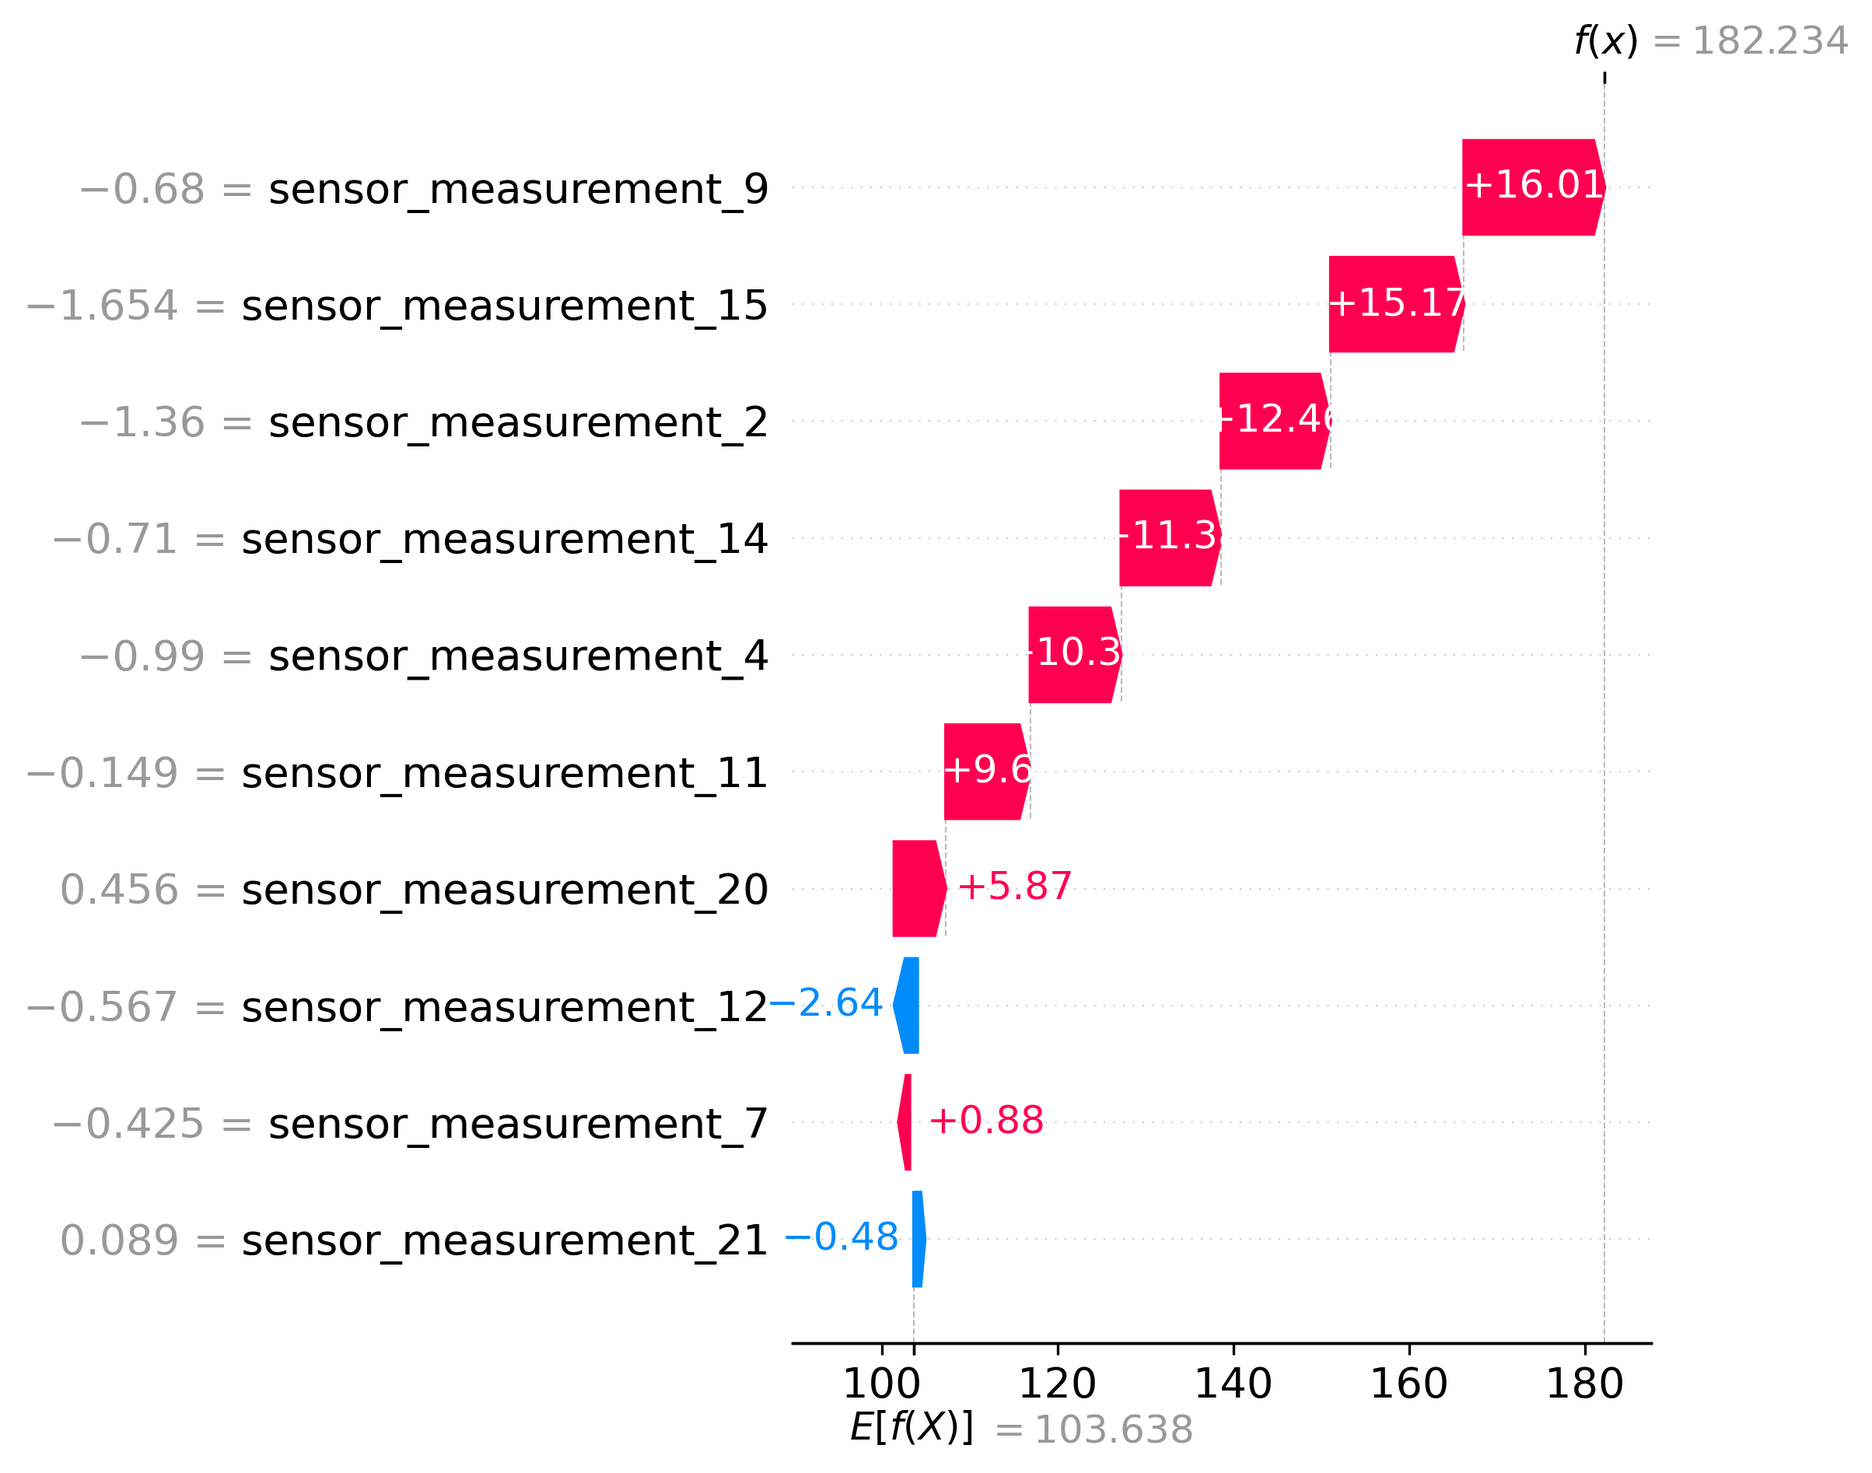
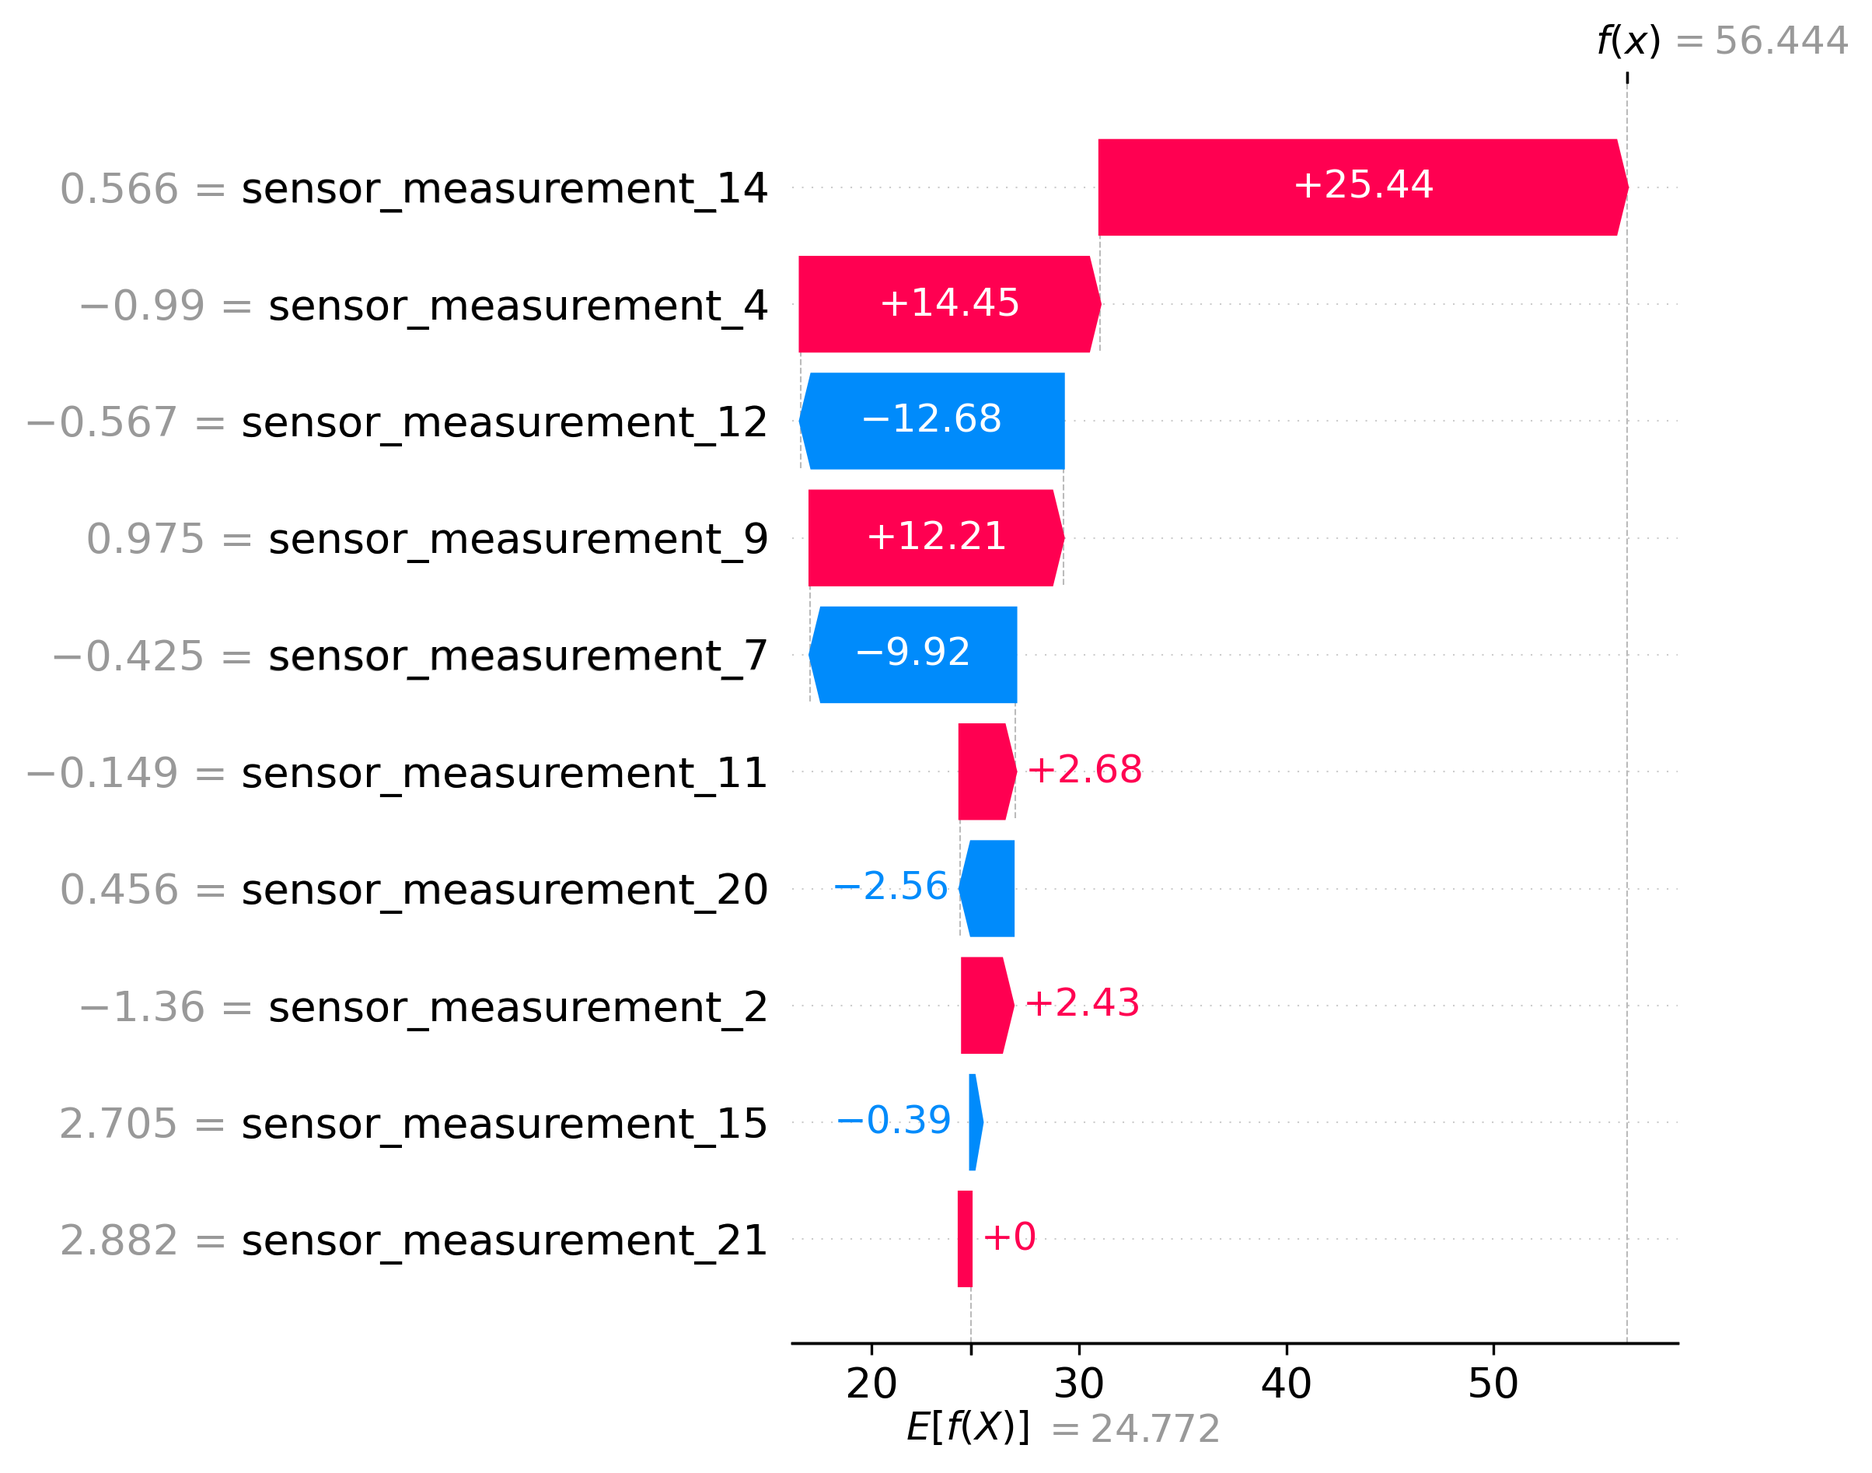
dene

diff --git a/reports/lime_explanation.html b/reports/lime_explanation.html
@@ -37179,25 +37179,25 @@
 /***/ })
 /******/ ]);
 //# sourceMappingURL=bundle.js.map </script></head><body>
-        <div class="lime top_div" id="top_divQ5JF7NCBO4XEWF1"></div>
+        <div class="lime top_div" id="top_divPHFOTSIHFSVS5LF"></div>
         
         <script>
-        var top_div = d3.select('#top_divQ5JF7NCBO4XEWF1').classed('lime top_div', true);
+        var top_div = d3.select('#top_divPHFOTSIHFSVS5LF').classed('lime top_div', true);
         
         
                     var pp_div = top_div.append('div')
                                         .classed('lime predicted_value', true);
                     var pp_svg = pp_div.append('svg').style('width', '100%');
-                    var pp = new lime.PredictedValue(pp_svg, 83.9693832397461, 27.097143173217773, 228.87863159179688);
+                    var pp = new lime.PredictedValue(pp_svg, 56.44389213143544, 23.315924613887702, 191.85516354106232);
                     
         var exp_div;
             var exp = new lime.Explanation(["negative", "positive"]);
         
             exp_div = top_div.append('div').classed('lime explanation', true);
-            exp.show([["sensor_measurement_11 > 0.60", -23.583279571980356], ["sensor_measurement_7 > 0.73", 14.753987134929249], ["sensor_measurement_4 <= -0.73", 11.747356971178373], ["sensor_measurement_12 <= -0.62", -10.002054619211357], ["sensor_measurement_2 <= -0.71", 9.718272243879412], ["sensor_measurement_15 > 0.63", -7.167314536285208], ["-0.54 < sensor_measurement_14 <= -0.17", 6.6808708354935815], ["sensor_measurement_20 <= -0.66", -5.619332346636126], ["sensor_measurement_21 <= -0.64", -3.345006769153097], ["-0.21 < sensor_measurement_9 <= 0.18", -2.979836992745462]], 1, exp_div);
+            exp.show([["sensor_measurement_9 > 0.18", -32.7535477518242], ["sensor_measurement_14 > 0.22", -28.2329653387959], ["sensor_measurement_4 <= -0.73", 11.972689976733157], ["sensor_measurement_21 > 0.71", 9.417008732714095], ["sensor_measurement_15 > 0.63", -9.224336097615991], ["-0.71 < sensor_measurement_11 <= -0.11", 7.339785786742209], ["sensor_measurement_2 <= -0.71", 6.5101496900753215], ["-0.64 < sensor_measurement_7 <= 0.08", -3.6222504596025065], ["-0.62 < sensor_measurement_12 <= 0.09", -0.9598153006127299], ["0.07 < sensor_measurement_20 <= 0.73", 0.8015468135282559]], 1, exp_div);
             
         var raw_div = top_div.append('div');
-            exp.show_raw_tabular([["sensor_measurement_11", "3.73", -23.583279571980356], ["sensor_measurement_7", "3.06", 14.753987134929249], ["sensor_measurement_4", "-2.78", 11.747356971178373], ["sensor_measurement_12", "-1.93", -10.002054619211357], ["sensor_measurement_2", "-7.78", 9.718272243879412], ["sensor_measurement_15", "0.95", -7.167314536285208], ["sensor_measurement_14", "-0.30", 6.6808708354935815], ["sensor_measurement_20", "-8.44", -5.619332346636126], ["sensor_measurement_21", "-3.73", -3.345006769153097], ["sensor_measurement_9", "-0.15", -2.979836992745462]], 1, raw_div);
+            exp.show_raw_tabular([["sensor_measurement_9", "0.98", -32.7535477518242], ["sensor_measurement_14", "0.57", -28.2329653387959], ["sensor_measurement_4", "-0.99", 11.972689976733157], ["sensor_measurement_21", "2.88", 9.417008732714095], ["sensor_measurement_15", "2.71", -9.224336097615991], ["sensor_measurement_11", "-0.15", 7.339785786742209], ["sensor_measurement_2", "-1.36", 6.5101496900753215], ["sensor_measurement_7", "-0.43", -3.6222504596025065], ["sensor_measurement_12", "-0.57", -0.9598153006127299], ["sensor_measurement_20", "0.46", 0.8015468135282559]], 1, raw_div);
         
         </script>
         </body></html>

diff --git a/app.py b/app.py
@@ -917,10 +917,136 @@ if sicaklik is not None and titresim is not None and tork is not None:
     st.markdown("---")
     st.subheader("🧩 Model Açıklamaları (Explainability)")
     
+    # Özel modeller için wrapper oluştur
+    class ModelWrapper:
+        """LIME/SHAP için özel modelleri sarmalayan wrapper"""
+        def __init__(self, model, model_type, scaler, features):
+            self.model = model
+            self.model_type = model_type
+            self.scaler = scaler
+            self.features = features
+            
+            # Stacking için taban modelleri önden yükle (performans optimizasyonu)
+            self.base_models = {}
+            if "Stacking" in self.model_type:
+                try:
+                    self.base_models['xgboost'] = joblib.load("xgboost_q50_model.pkl")
+                except:
+                    pass
+                try:
+                    self.base_models['lightgbm'] = joblib.load("lightgbm_q50_model.pkl")
+                except:
+                    pass
+                try:
+                    self.base_models['catboost'] = joblib.load("catboost_q50_model.pkl")
+                except:
+                    pass
+        
+        def __call__(self, X):
+            """SHAP için callable interface - predict'e yönlendir"""
+            return self.predict(X)
+        
+        def predict(self, X):
+            """Tüm model türleri için unified predict interface"""
+            # Input'u numpy array'e dönüştür
+            if isinstance(X, pd.DataFrame):
+                X_array = X.values
+            else:
+                X_array = np.asarray(X)
+            
+            # Tek boyutlu array'i 2D'ye dönüştür
+            if len(X_array.shape) == 1:
+                X_array = X_array.reshape(1, -1)
+            
+            # Float tipinde olduğundan emin ol
+            X_array = X_array.astype(np.float64)
+            
+            if "LSTM" in self.model_type:
+                # LSTM için sequence oluştur
+                sequence_length = 50
+                predictions = []
+                for i in range(X_array.shape[0]):
+                    X_seq = np.repeat(X_array[i:i+1], sequence_length, axis=0).reshape(1, sequence_length, len(self.features))
+                    pred = float(self.model.predict(X_seq, verbose=0)[0][0])
+                    predictions.append(pred)
+                return np.array(predictions, dtype=np.float64)
+                
+            elif "Stacking" in self.model_type:
+                # Stacking: taban modellerin tahminlerini al (önden yüklenmiş)
+                predictions = []
+                for i in range(X_array.shape[0]):
+                    base_preds = []
+                    
+                    if 'xgboost' in self.base_models:
+                        try:
+                            pred = self.base_models['xgboost'].predict(X_array[i:i+1])
+                            base_preds.append(float(pred[0]) if hasattr(pred, '__getitem__') else float(pred))
+                        except:
+                            pass
+                    if 'lightgbm' in self.base_models:
+                        try:
+                            pred = self.base_models['lightgbm'].predict(X_array[i:i+1])
+                            base_preds.append(float(pred[0]) if hasattr(pred, '__getitem__') else float(pred))
+                        except:
+                            pass
+                    if 'catboost' in self.base_models:
+                        try:
+                            pred = self.base_models['catboost'].predict(X_array[i:i+1])
+                            base_preds.append(float(pred[0]) if hasattr(pred, '__getitem__') else float(pred))
+                        except:
+                            pass
+                    
+                    if len(base_preds) >= 2:
+                        Z = np.array(base_preds, dtype="float32").reshape(1, -1)
+                        predictions.append(float(self.model.predict(Z)[0]))
+                    else:
+                        predictions.append(100.0)  # Fallback
+                return np.array(predictions, dtype=np.float64)
+                
+            elif "Survival" in self.model_type:
+                # Cox modeli: hazard'dan RUL'a dönüştür
+                predictions = []
+                for i in range(X_array.shape[0]):
+                    df_pred = pd.DataFrame(X_array[i:i+1], columns=self.features)
+                    try:
+                        hazard = self.model.predict_partial_hazard(df_pred).iloc[0]
+                        rul = max(10.0, 200.0 / (1 + float(hazard)))
+                    except:
+                        rul = 100.0  # Fallback
+                    predictions.append(rul)
+                return np.array(predictions, dtype=np.float64)
+                
+            elif "Conformal" in self.model_type:
+                # Conformal: p50 quantile kullan
+                if isinstance(self.model, dict):
+                    preds = self.model[0.5].predict(X_array)
+                    return np.array(preds, dtype=np.float64)
+                preds = self.model.predict(X_array)
+                return np.array(preds, dtype=np.float64)
+                
+            else:
+                # Normal modeller (XGBoost, LightGBM, CatBoost)
+                preds = self.model.predict(X_array)
+                return np.array(preds, dtype=np.float64)
+    
+    # Model wrapper'ı sadece özel modeller için kullan
+    needs_wrapper = any(x in selected_model for x in ["LSTM", "Stacking", "Survival", "Conformal"])
+    
+    if needs_wrapper:
+        wrapped_model = ModelWrapper(model, selected_model, scaler, features)
+        model_for_explain = wrapped_model
+        st.info(f"ℹ **{selected_model}** için özel explainability desteği aktif. "
+                "SHAP/LIME analizleri biraz daha uzun sürebilir.")
+    else:
+        # Standart modeller için orijinal modeli kullan
+        model_for_explain = model
+    
+    explainability_supported = True  # Artık hepsi destekleniyor
+    
     col1, col2, col3 = st.columns(3)
     
     with col1:
-        if st.button("🔍 LIME Açıklaması", width='stretch'):
+        if st.button("🔍 LIME Açıklaması", width='stretch', disabled=not explainability_supported):
             try:
                 with st.spinner("LIME açıklaması oluşturuluyor..."):
                     # Örnek veri oluştur - sensör mapping'ini kullan
@@ -938,7 +1064,7 @@ if sicaklik is not None and titresim is not None and tork is not None:
                     }
                     sample_df = pd.DataFrame(sample_data)
                     
-                    html_file, lime_exp = explain_instance(model, scaler, sample_df, features, "reports/lime_explanation.html")
+                    html_file, lime_exp = explain_instance(model_for_explain, scaler, sample_df, features, "reports/lime_explanation.html")
                     
                 st.success("✅ LIME açıklaması oluşturuldu!")
                 
@@ -1006,7 +1132,7 @@ if sicaklik is not None and titresim is not None and tork is not None:
                 st.code(traceback.format_exc())
     
     with col2:
-        if st.button("📊 SHAP Lokal Grafiği", width='stretch'):
+        if st.button("📊 SHAP Lokal Grafiği", width='stretch', disabled=not explainability_supported):
             try:
                 with st.spinner("SHAP lokal analizi yapılıyor..."):
                     # Örnek veri oluştur - sensör mapping'ini kullan
@@ -1030,7 +1156,7 @@ if sicaklik is not None and titresim is not None and tork is not None:
                         columns=sample_df.columns
                     )
                     
-                    local_path = shap_local_png(model, X_scaled)
+                    local_path = shap_local_png(model_for_explain, X_scaled)
                     
                 st.success("✅ SHAP lokal grafiği oluşturuldu!")
                 
@@ -1042,7 +1168,7 @@ if sicaklik is not None and titresim is not None and tork is not None:
                 st.error(f"❌ SHAP lokal hatası: {e}")
     
     with col3:
-        if st.button("📈 SHAP Özet Grafiği", width='stretch'):
+        if st.button("📈 SHAP Özet Grafiği", width='stretch', disabled=not explainability_supported):
             try:
                 with st.spinner("SHAP özet analizi yapılıyor..."):
                     # Örnek veri yükle
@@ -1055,7 +1181,7 @@ if sicaklik is not None and titresim is not None and tork is not None:
                         index=X_sample.index
                     )
                     
-                    summary_path = shap_summary_png(model, X_scaled)
+                    summary_path = shap_summary_png(model_for_explain, X_scaled)
                     
                 st.success("✅ SHAP özet grafiği oluşturuldu!")
                 

diff --git a/shap_analysis.py b/shap_analysis.py
@@ -29,9 +29,43 @@ def shap_summary_png(model, x_sample: pd.DataFrame, out_path: str = "reports/sha
         print("🔍 SHAP summary analizi başlıyor...")
         print(f"📊 Örnek veri boyutu: {x_sample.shape}")
         
-        # SHAP explainer oluştur
-        explainer = shap.Explainer(model)
-        shap_values = explainer(x_sample)
+        # Wrapper olup olmadığını kontrol et
+        is_wrapper = hasattr(model, '__class__') and model.__class__.__name__ == 'ModelWrapper'
+        
+        # Model tipini belirle
+        model_name = model.__class__.__name__ if hasattr(model, '__class__') else str(type(model))
+        is_tree_model = any(x in model_name for x in ['XGB', 'LGBM', 'LightGBM', 'CatBoost', 'RandomForest', 'GradientBoosting'])
+        
+        if is_wrapper:
+            # Wrapper için Permutation Explainer kullan (callable)
+            # Background: Train verisinden daha büyük sample (wrapper için gerekli)
+            try:
+                train_df = pd.read_csv("train_rul.csv")
+                feature_cols = x_sample.columns.tolist()
+                bg_sample = train_df[feature_cols].sample(min(200, len(train_df)), random_state=42)
+                print(f"📊 Background sample: {bg_sample.shape}")
+            except:
+                # Fallback: x_sample'dan küçük sample
+                bg_sample = x_sample.sample(min(50, len(x_sample)), random_state=42)
+                print(f"⚠ Background fallback: {bg_sample.shape}")
+            
+            explainer = shap.PermutationExplainer(model, bg_sample)
+            shap_values = explainer(x_sample)
+        elif is_tree_model:
+            # Tree model için otomatik explainer (TreeExplainer seçer)
+            explainer = shap.Explainer(model)
+            shap_values = explainer(x_sample)
+        else:
+            # Diğer modeller için Permutation Explainer
+            try:
+                train_df = pd.read_csv("train_rul.csv")
+                feature_cols = x_sample.columns.tolist()
+                bg_sample = train_df[feature_cols].sample(min(200, len(train_df)), random_state=42)
+            except:
+                bg_sample = x_sample.sample(min(50, len(x_sample)), random_state=42)
+            
+            explainer = shap.PermutationExplainer(model.predict, bg_sample)
+            shap_values = explainer(x_sample)
         
         # Summary plot oluştur
         plt.figure(figsize=(12, 8))
@@ -63,9 +97,43 @@ def shap_local_png(model, x_one: pd.DataFrame, out_path: str = "reports/shap_loc
         print("🔍 SHAP lokal analizi başlıyor...")
         print(f"🎯 Örnek veri boyutu: {x_one.shape}")
         
-        # SHAP explainer oluştur
-        explainer = shap.Explainer(model)
-        shap_values = explainer(x_one)
+        # Wrapper olup olmadığını kontrol et
+        is_wrapper = hasattr(model, '__class__') and model.__class__.__name__ == 'ModelWrapper'
+        
+        # Model tipini belirle
+        model_name = model.__class__.__name__ if hasattr(model, '__class__') else str(type(model))
+        is_tree_model = any(x in model_name for x in ['XGB', 'LGBM', 'LightGBM', 'CatBoost', 'RandomForest', 'GradientBoosting'])
+        
+        if is_wrapper:
+            # Wrapper için Permutation Explainer kullan (callable)
+            # Background: Train verisinden sample yükle
+            try:
+                train_df = pd.read_csv("train_rul.csv")
+                feature_cols = x_one.columns.tolist()
+                bg_sample = train_df[feature_cols].sample(min(100, len(train_df)), random_state=42)
+                print(f"📊 Background sample: {bg_sample.shape}")
+            except:
+                # Fallback: x_one'ı tekrarla
+                bg_sample = pd.concat([x_one] * 50, ignore_index=True)
+                print(f"⚠ Background fallback: {bg_sample.shape}")
+            
+            explainer = shap.PermutationExplainer(model, bg_sample)
+            shap_values = explainer(x_one)
+        elif is_tree_model:
+            # Tree model için otomatik explainer (TreeExplainer seçer)
+            explainer = shap.Explainer(model)
+            shap_values = explainer(x_one)
+        else:
+            # Diğer modeller için Permutation Explainer
+            try:
+                train_df = pd.read_csv("train_rul.csv")
+                feature_cols = x_one.columns.tolist()
+                bg_sample = train_df[feature_cols].sample(min(100, len(train_df)), random_state=42)
+            except:
+                bg_sample = pd.concat([x_one] * 50, ignore_index=True)
+            
+            explainer = shap.PermutationExplainer(model.predict, bg_sample)
+            shap_values = explainer(x_one)
         
         # Waterfall plot oluştur
         plt.figure(figsize=(12, 8))
